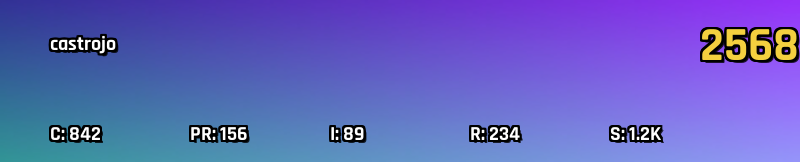
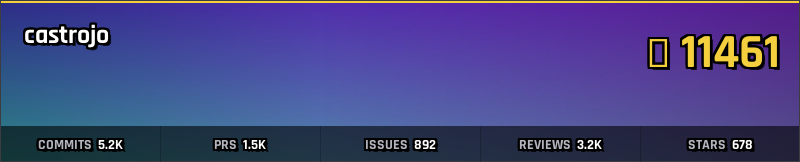
feat: implement Destiny 2 badge styling overhaul
Comprehensive rewrite of badge generator implementing all 6 visual phases:

Phase 1: Dark gradient overlay
- Horizontal gradient from transparent (left) to semi-opaque black (right)
- Starts at 40% from left edge for readable power level area

Phase 2: Stat bar with dividers
- Semi-transparent dark bar (rgba 0,0,0,150) across bottom 36px
- Stats centered in equal-width cells
- Thin vertical dividers (rgba 255,255,255,50) between stats

Phase 3: Gold accent line
- 3px gold line (#F4D03F) at top edge
- Matches Destiny 2 emblem banner accent styling

Phase 4: Right-aligned power level with diamond
- Power level right-aligned with 20px margin
- Diamond icon (◆) prefix in gold
- Dynamic text measurement for precise positioning

Phase 5: Typography improvements
- 3 font sizes: Large (48pt), Medium (26pt), Small (14pt)
- Color hierarchy: dim white (180,180,190) for labels, bright white for values
- Labels and values rendered separately for color control

Phase 6: Polish and refinement
- 1px dark grey border (60,60,65) around entire badge
- Subtle overall darken overlay (rgba 0,0,0,25)
- Consistent 20px horizontal margins

Technical changes:
- New FontFaces struct with Large/Medium/Small faces
- loadFonts() returns *FontFaces instead of two separate faces
- Helper functions: drawRect, drawHorizontalGradient, drawBorder, measureText
- All tests pass, example badges regenerated

Closes contribemblem-t6t, contribemblem-ush, contribemblem-miw,
[…]

diff --git a/internal/badge/generator.go b/internal/badge/generator.go
@@ -5,6 +5,7 @@ import (
 	"fmt"
 	"image"
 	"image/color"
+	"image/draw"
 	_ "image/jpeg"
 	"image/png"
 	"os"
@@ -20,15 +21,37 @@ var rajdhaniFontData []byte
 const (
 	Width  = 800
 	Height = 162 // Matches Destiny 2 emblem aspect ratio (474:96)
+
+	// Layout constants
+	marginX        = 20
+	marginTop      = 12
+	statBarHeight  = 36
+	accentHeight   = 3
+	borderWidth    = 1
+	statDividerW   = 1
+	gradientStartX = 0.4 // Start gradient at 40% from left
 )
 
 var (
 	// Destiny exotic gold
 	PowerLevelColor = color.RGBA{244, 208, 63, 255} // #F4D03F
+	AccentColor     = color.RGBA{244, 208, 63, 255} // #F4D03F
 	WhiteColor      = color.RGBA{255, 255, 255, 255}
+	DimWhiteColor   = color.RGBA{180, 180, 190, 255}
 	BlackColor      = color.RGBA{0, 0, 0, 255}
 	ShadowColor     = color.RGBA{0, 0, 0, 204} // alpha 0.8
+	StatBarColor    = color.RGBA{0, 0, 0, 150}
+	DividerColor    = color.RGBA{255, 255, 255, 50}
+	BorderColor     = color.RGBA{60, 60, 65, 255}
+	OverlayDark     = color.RGBA{0, 0, 0, 25}
 )
+
+// FontFaces holds the three font sizes used in badge generation
+type FontFaces struct {
+	Large  font.Face // 48pt for power level
+	Medium font.Face // 26pt for username
+	Small  font.Face // 14pt for stats
+}
 
 // Stats for badge generation
 type Stats struct {
@@ -54,39 +77,92 @@ func Generate(emblemPath string, stats *Stats, outputPath string) error {
 	// Create canvas
 	canvas := image.NewRGBA(image.Rect(0, 0, Width, Height))
 
-	// Scale and draw emblem as background
+	// Phase 1: Scale and draw emblem as background
 	xdraw.BiLinear.Scale(canvas, canvas.Bounds(), emblemImg, emblemImg.Bounds(), xdraw.Over, nil)
 
-	// Load font
-	face48, face20, err := loadFonts()
+	// Phase 2: Overall darken overlay for Destiny dark UI feel
+	drawRect(canvas, 0, 0, Width, Height, OverlayDark)
+
+	// Phase 3: Horizontal gradient overlay (left transparent → right semi-opaque black)
+	drawHorizontalGradient(canvas, int(float64(Width)*gradientStartX), 0, Width, Height, color.RGBA{0, 0, 0, 100})
+
+	// Phase 4: Semi-transparent stat bar across bottom
+	statBarY := Height - statBarHeight
+	drawRect(canvas, 0, statBarY, Width, statBarHeight, StatBarColor)
+
+	// Phase 5: Gold accent line at top
+	drawRect(canvas, 0, 0, Width, accentHeight, AccentColor)
+
+	// Phase 6: Border around entire badge
+	drawBorder(canvas, Width, Height, borderWidth, BorderColor)
+
+	// Load fonts
+	fonts, err := loadFonts()
 	if err != nil {
 		return fmt.Errorf("failed to load fonts: %w", err)
 	}
-	defer face48.Close()
-	defer face20.Close()
+	defer fonts.Large.Close()
+	defer fonts.Medium.Close()
+	defer fonts.Small.Close()
 
 	// Calculate Power Level
 	powerLevel := stats.Commits + stats.PullRequests + stats.Issues + stats.Reviews + stats.Stars
 
-	// Render username (top-left)
+	// Render username (top-left with medium font)
 	if stats.Username != "" {
-		DrawTextWithOutline(canvas, stats.Username, 50, 50, face20, WhiteColor)
+		usernameY := accentHeight + marginTop + 28
+		DrawTextWithOutline(canvas, stats.Username, marginX+4, usernameY, fonts.Medium, WhiteColor)
 	}
 
-	// Render Power Level (top-right)
+	// Render Power Level (right-aligned with diamond icon)
 	powerText := fmt.Sprintf("%d", powerLevel)
-	DrawTextWithOutline(canvas, powerText, 700, 60, face48, PowerLevelColor)
+	diamondIcon := "◆"
 
-	// Render individual stats (bottom row)
-	statLabels := []string{"C:", "PR:", "I:", "R:", "S:"}
+	// Measure text widths
+	powerWidth := measureText(fonts.Large, powerText)
+	diamondWidth := measureText(fonts.Large, diamondIcon)
+	totalWidth := diamondWidth + 8 + powerWidth // 8px spacing between diamond and number
+
+	// Calculate right-aligned position
+	powerX := Width - marginX - totalWidth
+	powerY := accentHeight + marginTop + 52
+
+	// Draw diamond icon
+	DrawTextWithOutline(canvas, diamondIcon, powerX, powerY, fonts.Large, PowerLevelColor)
+
+	// Draw power level number
+	DrawTextWithOutline(canvas, powerText, powerX+diamondWidth+8, powerY, fonts.Large, PowerLevelColor)
+
+	// Render stats in stat bar (centered in cells with dividers)
+	statLabels := []string{"COMMITS", "PRS", "ISSUES", "REVIEWS", "STARS"}
 	statValues := []int{stats.Commits, stats.PullRequests, stats.Issues, stats.Reviews, stats.Stars}
-	xOffset := 50
-	spacing := 140
+
+	cellWidth := Width / 5
+	statCenterY := statBarY + statBarHeight/2
 
 	for i := 0; i < 5; i++ {
-		text := fmt.Sprintf("%s %s", statLabels[i], FormatNumber(statValues[i]))
-		DrawTextWithOutline(canvas, text, xOffset, 140, face20, WhiteColor)
-		xOffset += spacing
+		// Draw vertical divider (except before first stat)
+		if i > 0 {
+			dividerX := i * cellWidth
+			drawRect(canvas, dividerX, statBarY, statDividerW, statBarHeight, DividerColor)
+		}
+
+		// Prepare label and value text
+		label := statLabels[i]
+		value := FormatNumber(statValues[i])
+
+		// Measure text widths for centering
+		labelWidth := measureText(fonts.Small, label)
+		valueWidth := measureText(fonts.Small, value)
+		totalTextWidth := labelWidth + 6 + valueWidth // 6px spacing between label and value
+
+		// Calculate center position within cell
+		cellCenterX := i*cellWidth + cellWidth/2
+		textStartX := cellCenterX - totalTextWidth/2
+
+		// Draw label (dim white) and value (bright white)
+		DrawTextWithOutline(canvas, label, textStartX, statCenterY+5, fonts.Small, DimWhiteColor)
+		DrawTextWithOutline(canvas, value, textStartX+labelWidth+6, statCenterY+5, fonts.Small, WhiteColor)
 	}
 
 	// Save PNG
@@ -104,31 +180,47 @@ func loadImage(path string) (image.Image, error) {
 	return img, err
 }
 
-func loadFonts() (font.Face, font.Face, error) {
+func loadFonts() (*FontFaces, error) {
 	ttf, err := opentype.Parse(rajdhaniFontData)
 	if err != nil {
-		return nil, nil, err
+		return nil, err
 	}
 
-	face48, err := opentype.NewFace(ttf, &opentype.FaceOptions{
+	large, err := opentype.NewFace(ttf, &opentype.FaceOptions{
 		Size:    48,
 		DPI:     72,
 		Hinting: font.HintingFull,
 	})
 	if err != nil {
-		return nil, nil, err
+		return nil, err
 	}
 
-	face20, err := opentype.NewFace(ttf, &opentype.FaceOptions{
-		Size:    20,
+	medium, err := opentype.NewFace(ttf, &opentype.FaceOptions{
+		Size:    26,
 		DPI:     72,
 		Hinting: font.HintingFull,
 	})
 	if err != nil {
-		return nil, nil, err
+		large.Close()
+		return nil, err
 	}
 
-	return face48, face20, nil
+	small, err := opentype.NewFace(ttf, &opentype.FaceOptions{
+		Size:    14,
+		DPI:     72,
+		Hinting: font.HintingFull,
+	})
+	if err != nil {
+		large.Close()
+		medium.Close()
+		return nil, err
+	}
+
+	return &FontFaces{
+		Large:  large,
+		Medium: medium,
+		Small:  small,
+	}, nil
 }
 
 func savePNG(img image.Image, path string) error {
@@ -139,4 +231,53 @@ func savePNG(img image.Image, path string) error {
 	defer f.Close()
 
 	return png.Encode(f, img)
+}
+
+// drawRect draws a filled rectangle with the given color
+func drawRect(dst draw.Image, x, y, width, height int, col color.Color) {
+	rect := image.Rect(x, y, x+width, y+height)
+	draw.Draw(dst, rect, &image.Uniform{col}, image.Point{}, draw.Over)
+}
+
+// drawHorizontalGradient draws a left-to-right gradient from transparent to the given color
+func drawHorizontalGradient(dst draw.Image, startX, y, endX, height int, endColor color.Color) {
+	r, g, b, a := endColor.RGBA()
+	maxAlpha := float64(a >> 8)
+
+	for x := startX; x < endX; x++ {
+		// Calculate alpha based on position (0.0 at startX, 1.0 at endX)
+		progress := float64(x-startX) / float64(endX-startX)
+		alpha := uint8(progress * maxAlpha)
+
+		gradColor := color.RGBA{
+			R: uint8(r >> 8),
+			G: uint8(g >> 8),
+			B: uint8(b >> 8),
+			A: alpha,
+		}
+
+		drawRect(dst, x, y, 1, height, gradColor)
+	}
+}
+
+// drawBorder draws a border around the image
+func drawBorder(dst draw.Image, width, height, borderW int, col color.Color) {
+	// Top
+	drawRect(dst, 0, 0, width, borderW, col)
+	// Bottom
+	drawRect(dst, 0, height-borderW, width, borderW, col)
+	// Left
+	drawRect(dst, 0, 0, borderW, height, col)
+	// Right
+	drawRect(dst, width-borderW, 0, borderW, height, col)
+}
+
+// measureText returns the width of the text in pixels
+func measureText(face font.Face, text string) int {
+	drawer := &font.Drawer{
+		Face: face,
+	}
+
+	advance := drawer.MeasureString(text)
+	return advance.Round()
 }
